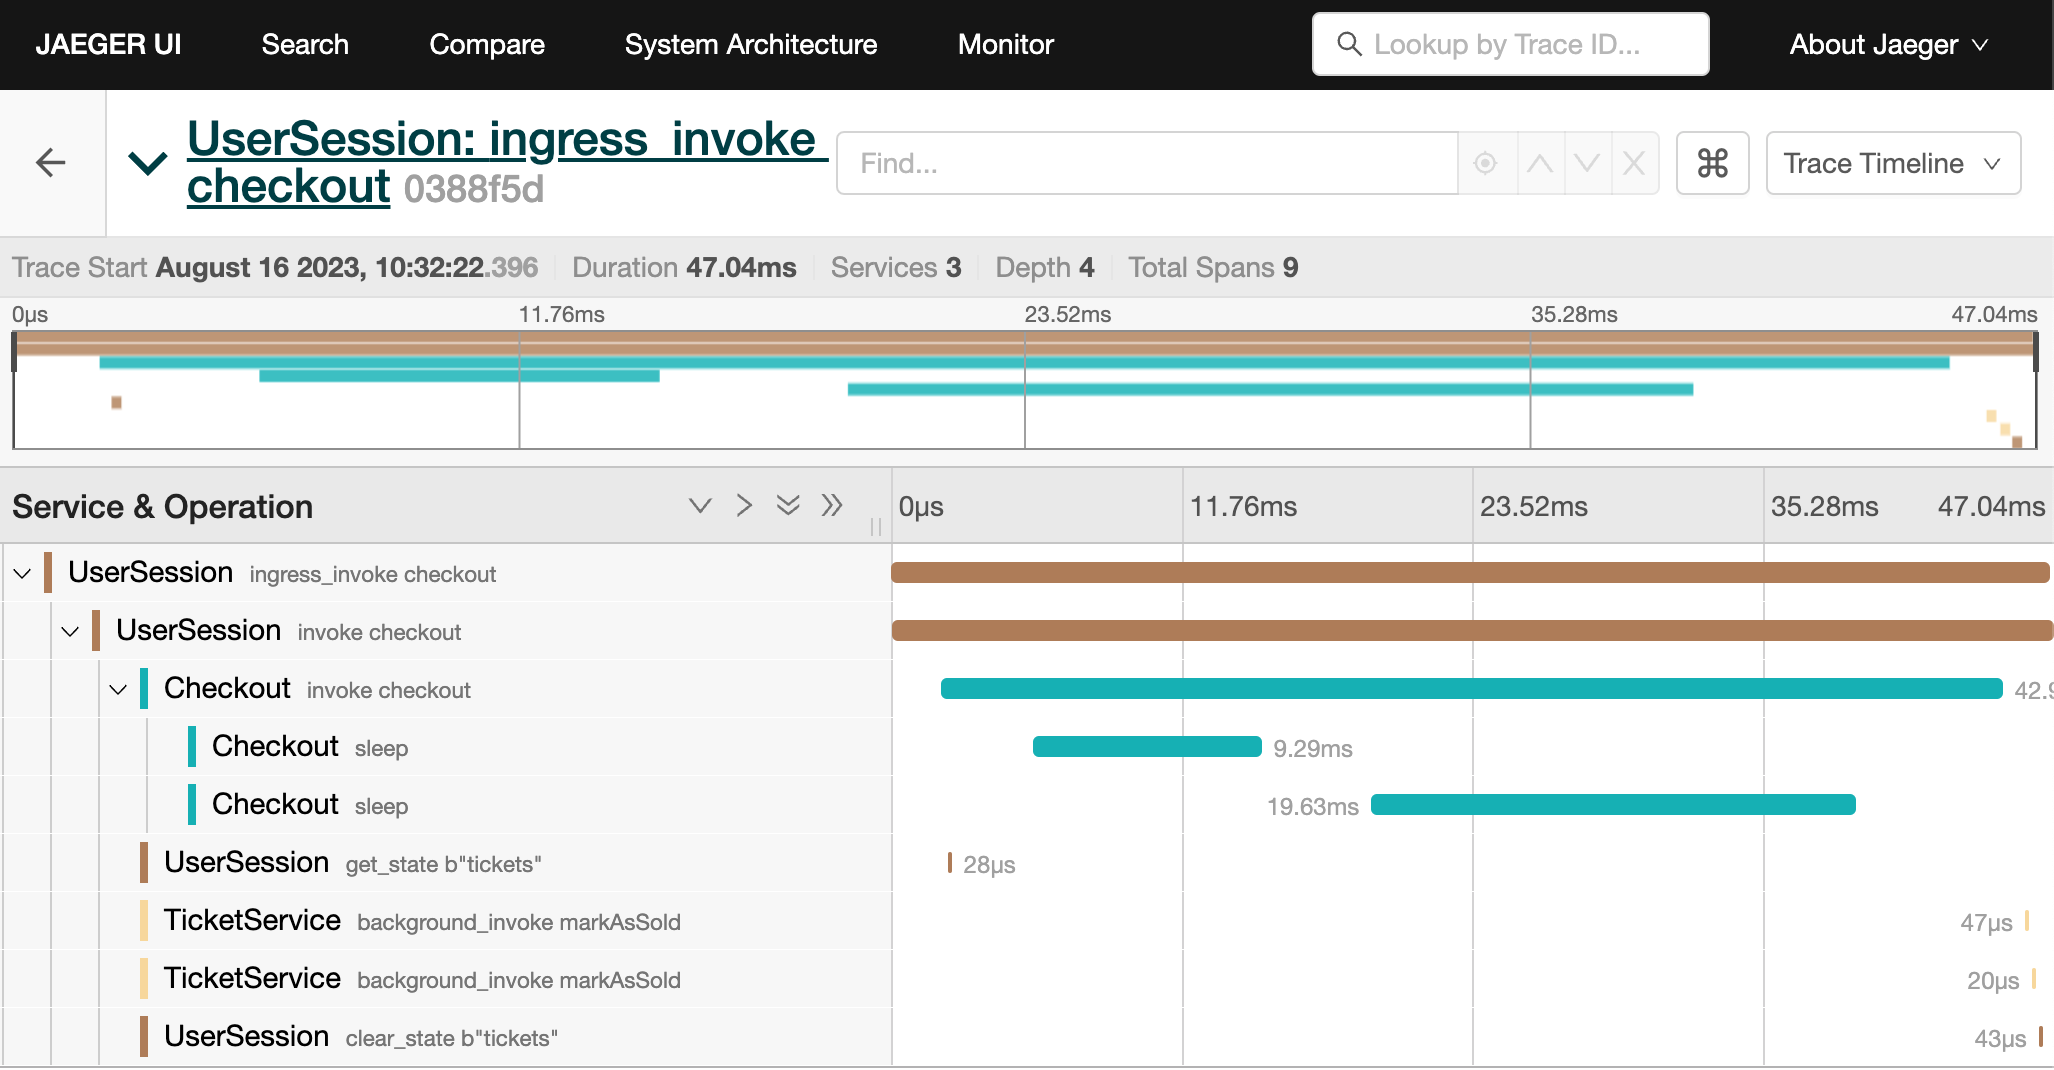
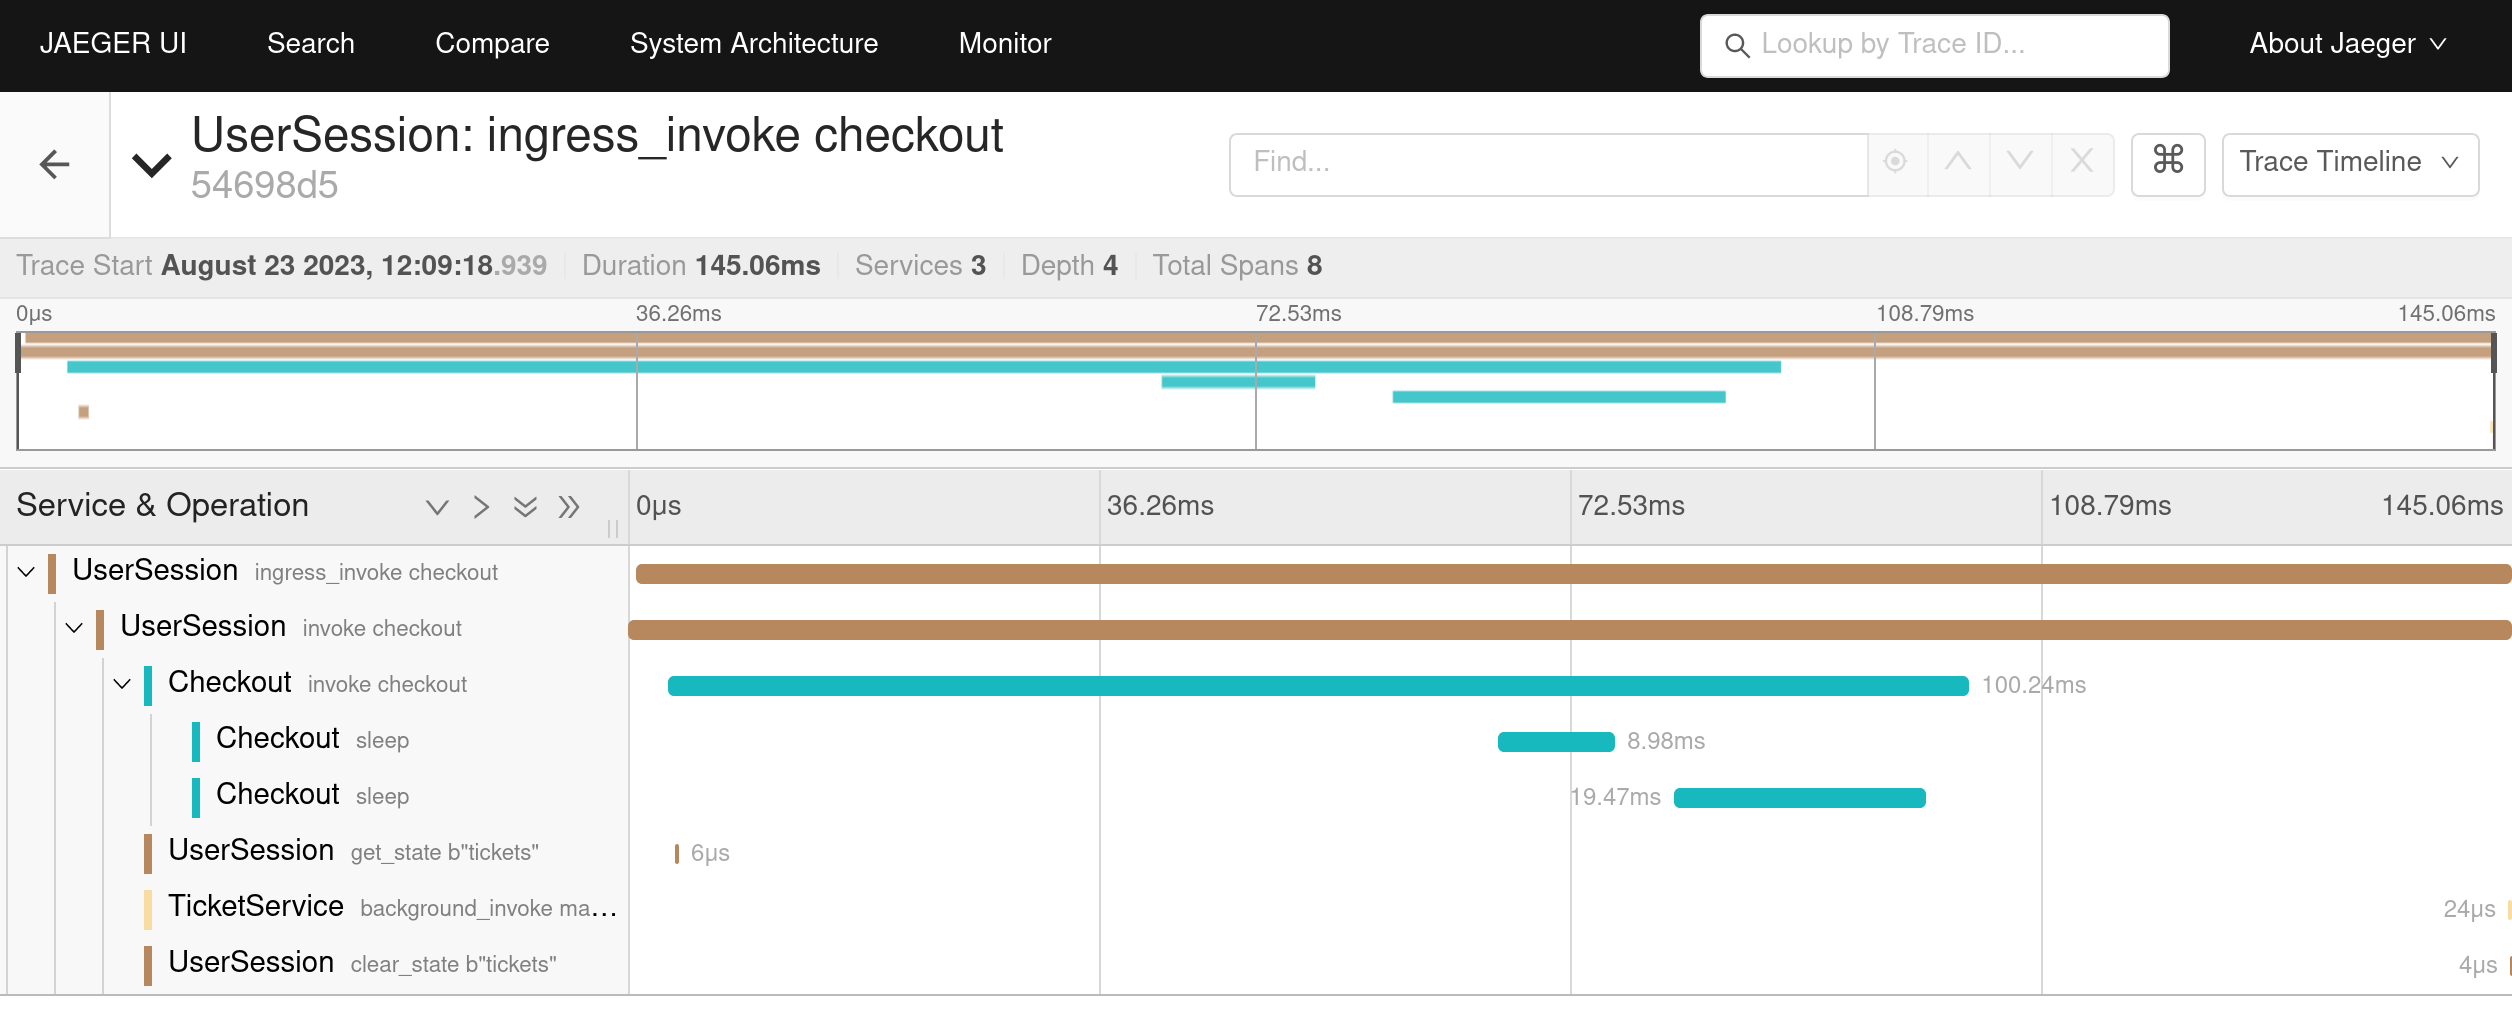
Rename service invocation identifier -> invocation identifier (#135)
* Update sql introspection documentation
* Search and replace sid -> id and service invocation id -> invocation id
* Update logs
* Update tour images for tracing
* Update tracing images in the tracing docs
* Update tracing file import
* Broken link

diff --git a/docs/services/introspection.md b/docs/services/introspection.md
@@ -9,7 +9,7 @@ draft: false
 
 Restate exposes information on invocations and application state via its Introspection SQL API. You can use this to gain insight into the status of invocations and the service state that is stored.
 
-This can be useful for troubleshooting. For example, a handler might be blocked for a specific key, and you want to kill the invocation that is blocking it but you don't know the service invocation ID. Or you want to check what is currently stored in the state of a service.
+This can be useful for troubleshooting. For example, a handler might be blocked for a specific key, and you want to kill the invocation that is blocking it but you don't know the invocation ID. Or you want to check what is currently stored in the state of a service.
 
 To let you do this, Restate exposes two SQL tables that you can query via the [*psql* client](https://www.postgresql.org/docs/current/app-psql.html):
 - `sys_status` table to inspect invocation status.
@@ -51,33 +51,33 @@ This following list contains some key queries on the `sys_status` table to give 
     select * from sys_status;
     ```
 
-- Retrieve the service invocation ID (`sid`) that is currently blocking a service-key combination via:
+- Retrieve the invocation ID (`id`) that is currently blocking a service-key combination via:
     ```sql
-    select method, status, sid from sys_status where service = 'test.MyServiceName' and service_key_utf8 = 'myKey';
+    select method, status, id from sys_status where service = 'test.MyServiceName' and service_key_utf8 = 'myKey';
     ```
-  You can then use the service invocation ID to kill the invocation via the [admin API](/references/admin-api#tag/invocation/operation/cancel_invocation).
+  You can then use the invocation ID to [kill the invocation](./invocation.md#cancel-an-invocation).
 
 - Check the status of an invocation via:
     ```sql
-    select service, method, status from sys_status where sid = 'my_sid';
+    select service, method, status from sys_status where id = 'T4pIkIJIGAsBiiGDV2dxK7PkkKnWyWHE';
     ```
   The status field shows that the invocation is either in status `invoked`, meaning actively processing, or in status is `suspended`, meaning waiting on some external input (e.g. request-response call, awakeable, sleep, ...).
 
 - Check when an invocation was modified the last time via:
     ```sql
-    select modified_at from sys_status where sid = 'my_sid';
+    select modified_at from sys_status where id = 'T4pIkIJIGAsBiiGDV2dxK7PkkKnWyWHE';
     ```
   This includes any modification to the row in the table (e.g. when the service last switched its status from `invoked` to `suspended`, or when the last journal entry was added).
 
 - To find out if an invocation was triggered via the ingress or by another service:
     ```sql
-    select invoked_by, invoked_by_service, invoked_by_sid from sys_status where sid = 'my_sid';
+    select invoked_by, invoked_by_service, invoked_by_id from sys_status where id = 'T4pIkIJIGAsBiiGDV2dxK7PkkKnWyWHE';
     ```
-  The `invoked_by` field contains either `ingress` or `service`. If the invocation was triggered by another service, then the fields `invoked_by_service` and `invoked_by_sid` will supply more information about the invoking service.
+  The `invoked_by` field contains either `ingress` or `service`. If the invocation was triggered by another service, then the fields `invoked_by_service` and `invoked_by_id` will supply more information about the invoking service.
 
-- Retrieve the trace ID based on a service invocation ID:
+- Retrieve the trace ID based on a invocation ID:
     ```sql
-    select trace_id from sys_status where sid = 'my_sid';
+    select trace_id from sys_status where id = 'T4pIkIJIGAsBiiGDV2dxK7PkkKnWyWHE';
     ```
   Afterwards, you can use this trace ID to [search for spans in Jaeger](/restate/tracing#searching-traces).
 

diff --git a/docs/services/invocation.md b/docs/services/invocation.md
@@ -73,7 +73,7 @@ For example, using [Connect](#connect-grpc-on-http) and `curl`:
 curl -X POST http://<your-restate-runtime-host-port>/dev.restate.Ingress/Invoke -H 'content-type: application/json' -d '{"service": "org.example.Greeter", "method": "Greet", "payload": {"name": "Pete"}}'
 ```
 
-The response contains the [service invocation identifier](/services/invocation#service-invocation-identifier). You can use this identifier to manage the invocation as described in [the respective documention](/services/invocation).
+The response contains the [Invocation identifier](#invocation-identifier). You can use this identifier to cancel or kill the invocation as described in [the below paragraph](#cancel-an-invocation).
 
 For a complete documentation of the `dev.restate.Ingress` built-in service, check out the [Restate protobuf definitions](https://github.com/restatedev/proto/blob/main/dev/restate/services.proto).
 
@@ -103,11 +103,11 @@ For more details on the API, refer to the [admin API docs](/references/admin-api
 
 Restate offers several tools to manage the ongoing invocations.
 
-## Service invocation identifier
+## Invocation identifier
 
-Every invocation to a service gets a unique identifier assigned by Restate, called _Service invocation identifier_. You can use this identifier to filter your structured logs, find traces, and execute some management operations such as cancelling an invocation.
+Every invocation to a service gets a unique identifier assigned by Restate, called _Invocation identifier_. You can use this identifier to filter your structured logs, find traces, and execute some management operations such as cancelling an invocation.
 
-You can find this identifier in the runtime logs and OpenTelementry traces by looking for the `restate.invocation.sid`, for example:
+You can find this identifier in the runtime logs and OpenTelementry traces by looking for the `restate.invocation.id`, for example:
 
 ```log {7}
 2023-05-19T15:02:28.656467Z INFO restate_invoker::invocation_task
@@ -116,12 +116,12 @@ You can find this identifier in the runtime logs and OpenTelementry traces by lo
   in restate_invoker::invocation_task::invoker_invocation_task
     rpc.system: "restate"
     rpc.service: coordinator.Coordinator
-    restate.invocation.sid: coordinator.Coordinator-AYguNHjOdG+gM+TY9k1qeA==-01882e3478ce79579999ecabfd7f4129
+    restate.invocation.id: T4pIkIJIGAsBiiGDV2dxK7PkkKnWyWHE
 ```
 
 :::note
 
-The service invocation identifier is opaque and its current format should not be relied on, as it might change in future Restate versions.
+The Invocation identifier is opaque and its current format should not be relied on, as it might change in future Restate versions.
 
 :::
 
@@ -152,13 +152,13 @@ Killing an invocation might leave the service instance in an inconsistent state,
 To kill an invocation, send the following request to the Restate meta endpoint:
 
 ```shell
-$ curl -X DELETE <META_ENDPOINT>/invocations -H 'content-type: application/json' -d '{"sid": "<SERVICE_INVOCATION_IDENTIFIER>"}'
+$ curl -X DELETE <META_ENDPOINT>/invocations/<INVOCATION_IDENTIFIER>
 ```
 
 For example:
 
 ```shell
-$ curl -X DELETE http://localhost:8081/invocations -H 'content-type: application/json' -d '{"sid": "coordinator.Coordinator-AYguNHjOdG+gM+TY9k1qeA==-01882e3478ce79579999ecabfd7f4129"}'
+$ curl -X DELETE http://localhost:8081/invocations/T4pIkIJIGAsBiiGDV2dxK7PkkKnWyWHE
 ```
 
 For more details on the API, refer to the [admin API docs](/references/admin-api).

diff --git a/docs/restate/tracing.md b/docs/restate/tracing.md
@@ -80,9 +80,9 @@ You can import the trace files using the Jaeger UI:
 ## Understanding traces
 The traces contain detailed information about the context calls that were done during the invocation (e.g. sleep, one-way calls, interaction with state):
 
-![Understanding traces](/img/understanding_traces.png)
+![Understanding traces](/img/jaeger_tour_background_call_handler.png)
 
-The initial `ingress_service_invocation` spans show when the gRPC/Connect HTTP request was received by Restate. The `invoke` span beneath it shows when Restate invoked the service endpoint to process the request.
+The initial `ingress_invoke` spans show when the gRPC/Connect HTTP request was received by Restate. The `invoke` span beneath it shows when Restate invoked the service endpoint to process the request.
 
 The tags of the spans contain the metadata of the context calls (e.g. call arguments, invocation id). 
 
@@ -90,11 +90,11 @@ When a service invokes another service, the child invocation is linked automatic
 Note that the spans of one-way calls are shown as separate traces. The parent invocation only shows that the one-way call was scheduled, not its entire tracing span. 
 To see this information, search for the trace of the one-way call by filtering on the invocation id tag:
 ```
-restate.invocation.sid="example.MyExampleService-AzEyMw==-0189b536906b746c8da6f83f0257acda"
+restate.invocation.id="T4pIkIJIGAsBiiGDV2dxK7PkkKnWyWHE"
 ```
 
 ## Searching traces
 
-Traces export attributes and tags that correlate the trace with the service and/or invocation. For example, in the Jaeger UI, you can filter on the invocation id (`restate.invocation.sid`) or any other tag:
+Traces export attributes and tags that correlate the trace with the service and/or invocation. For example, in the Jaeger UI, you can filter on the invocation id (`restate.invocation.id`) or any other tag:
 
-![Jaeger invocation id search](/img/jaeger_docs_invocationid_search.png)
+![Jaeger invocation id search](/img/jaeger_invocationid_search_handler.png)

diff --git a/docs/restate/managed_service.md b/docs/restate/managed_service.md
@@ -57,11 +57,11 @@ Grafana supports correlating logs and traces. In your Loki data source configura
 set up a [Derived field](https://grafana.com/docs/grafana/latest/datasources/loki/configure-loki-data-source/#derived-fields)
 with the following parameters:
 ```yaml
-name: restate.invocation.sid
+name: restate.invocation.id
 # pull invocation ids out of logs
-regex: '"restate.invocation.sid":"(.+?)"' # single quotes not needed
+regex: '"restate.invocation.id":"(.+?)"' # single quotes not needed
 # find traces with that invocation id
-query: '{ .restate.invocation.sid="${__value.raw}" }' # single quotes not needed
+query: '{ .restate.invocation.id="${__value.raw}" }' # single quotes not needed
 internal_link:
   enabled: true
   data_source: <your Tempo data source>
@@ -69,7 +69,7 @@ internal_link:
 
 In your Tempo configuration, after you have a Loki data source configured, set up 
 [Trace to logs](https://grafana.com/docs/grafana/latest/datasources/tempo/#trace-to-logs) with data source set to your Loki data source,
-and query set to `{kubernetes_container_name="restate"} |= "${__span.tags["restate.invocation.sid"]}"`.
+and query set to `{kubernetes_container_name="restate"} |= "${__span.tags["restate.invocation.id"]}"`.
 
 You can view logs in Grafana on the explore page by selecting the Loki data source. To get started you can query:
 ```logql

diff --git a/docs/restate/logging.md b/docs/restate/logging.md
@@ -36,7 +36,7 @@ Most log events generated by Restate will also have the following attached attri
 
 * `rpc.service`: The related service
 * `rpc.method`: The related method
-* `restate.invocation.sid`: The [service invocation identifier](/services/invocation#service-invocation-identifier)
+* `restate.invocation.id`: The [invocation identifier](/services/invocation#invocation-identifier)
 
 ## Recommendations
 
